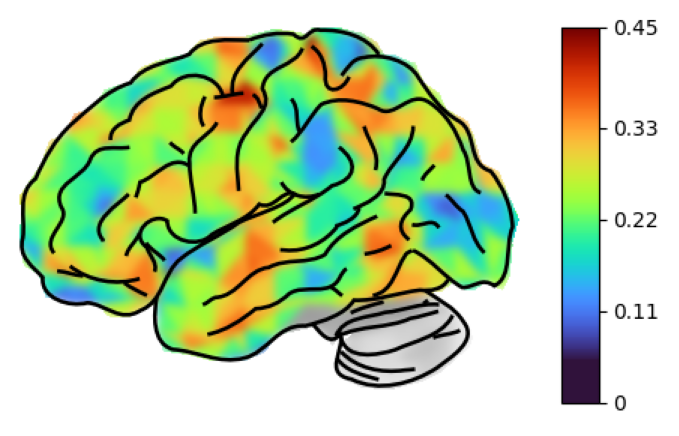
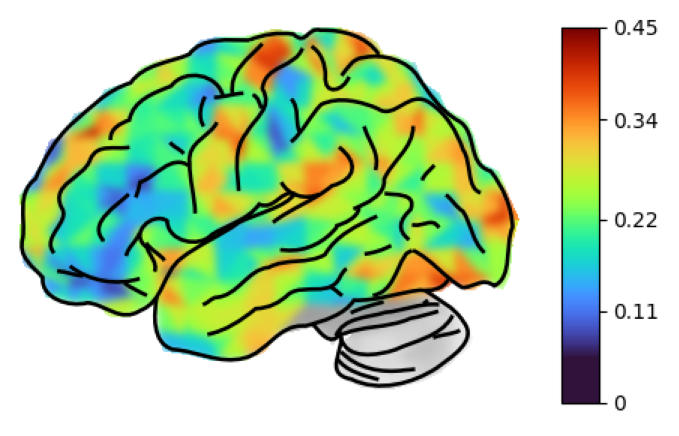
Add audio-only and video+audio+text stimulus->brain response maps (auditory + whole-cortex)

diff --git a/website/data.js b/website/data.js
@@ -186,7 +186,9 @@ window.BSU_DATA = {
   "inputs": [
     {"type": "image", "example": "a natural photograph", "benchmark": "MajajHong2015 V4 / IT", "desc": "Still images drive the ventral stream; predicted V4/IT responses map onto occipitotemporal cortex."},
     {"type": "text", "example": "a sentence", "benchmark": "Pereira2018", "desc": "Sentences drive the language network; a causal LM's features predict left frontotemporal language regions."},
+    {"type": "audio", "example": "a speech / environmental sound clip", "benchmark": "Lahner2024 auditory-ROI · Algonauts audio", "desc": "Sounds drive auditory cortex — Heschl's gyrus and superior temporal gyrus. A Wav2Vec2 tower predicts these temporal regions."},
     {"type": "video", "example": "a 3-second clip", "benchmark": "Lahner2024 BOLDMoments", "desc": "Short videos drive dorsal + ventral visual cortex; native-temporal V-JEPA leads."},
-    {"type": "video + audio", "example": "a movie segment", "benchmark": "Algonauts2025 CNeuroMod", "desc": "Continuous movies drive much of cortex; banded ridge over video+audio+text beats any single stream."}
+    {"type": "video + audio", "example": "a movie segment", "benchmark": "Algonauts2025 CNeuroMod", "desc": "Adding the audio tower extends prediction into temporal/auditory cortex alongside the visual response."},
+    {"type": "video + audio + text", "example": "a movie scene with dialogue + subtitles", "benchmark": "Algonauts2025 CNeuroMod (multimodal)", "desc": "The full naturalistic stream drives much of cortex; a banded ridge over all three towers (video + audio + text) gives the best whole-brain prediction — this is the actual Algonauts setup."}
   ]
 };

diff --git a/website/generate_assets.py b/website/generate_assets.py
@@ -30,11 +30,15 @@ ASSETS = os.path.join(HERE, 'assets')
 os.makedirs(ASSETS, exist_ok=True)
 
 # network emphasis per input type (network -> weight); others get a small base.
+# Slugs must match app.js slug(type): "video + audio + text" -> "videoaudiotext".
 EMPHASIS = {
-    'image':       {'Vis': 1.0, 'DorsAttn': 0.4},
-    'text':        {'Default': 1.0, 'Cont': 0.7, 'SalVentAttn': 0.3},
-    'video':       {'Vis': 0.9, 'DorsAttn': 0.7, 'SomMot': 0.5},
-    'videoaudio':  {'Vis': 0.7, 'SomMot': 0.9, 'DorsAttn': 0.5, 'Default': 0.4},
+    'image':           {'Vis': 1.0, 'DorsAttn': 0.4},
+    'text':            {'Default': 1.0, 'Cont': 0.7, 'SalVentAttn': 0.3},
+    'audio':           {'SomMot': 1.0, 'DorsAttn': 0.3},  # auditory ~ SomMot/temporal
+    'video':           {'Vis': 0.9, 'DorsAttn': 0.7, 'SomMot': 0.5},
+    'videoaudio':      {'Vis': 0.7, 'SomMot': 0.9, 'DorsAttn': 0.5, 'Default': 0.4},
+    'videoaudiotext':  {'Vis': 0.75, 'SomMot': 0.75, 'Default': 0.85, 'Cont': 0.6,
+                        'DorsAttn': 0.5, 'SalVentAttn': 0.4},  # broad, whole-cortex
 }
 
 
